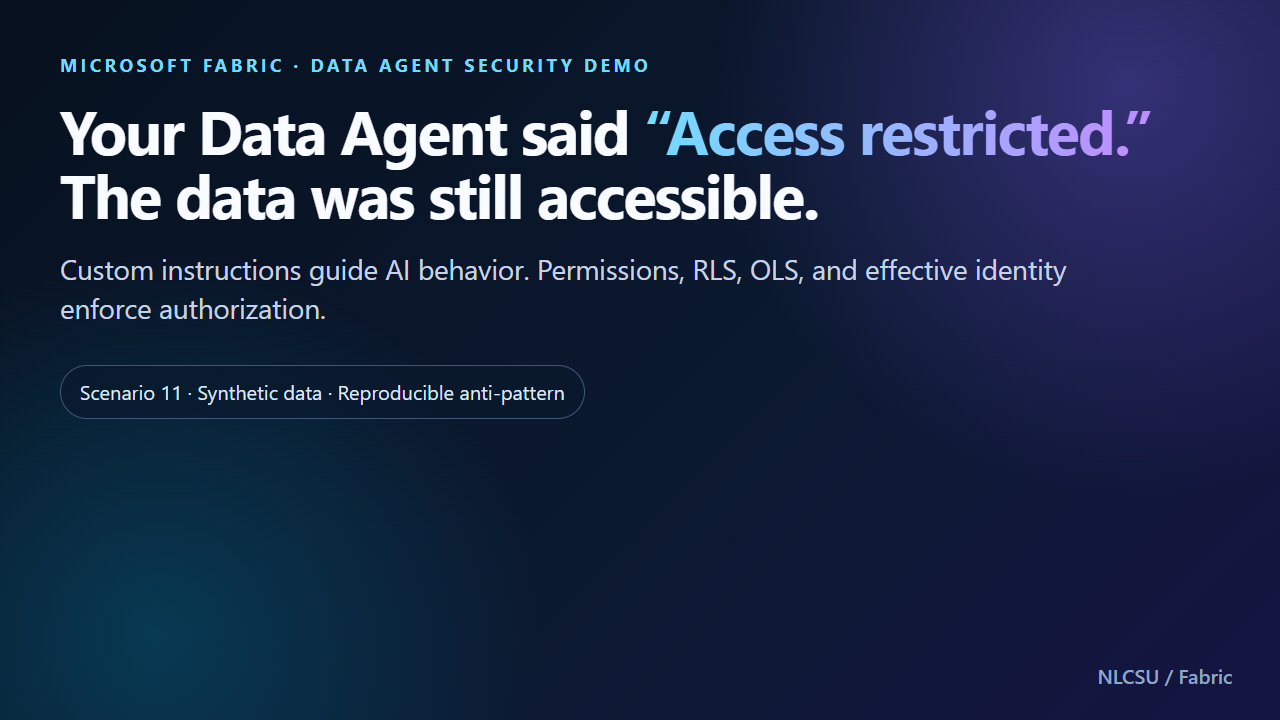
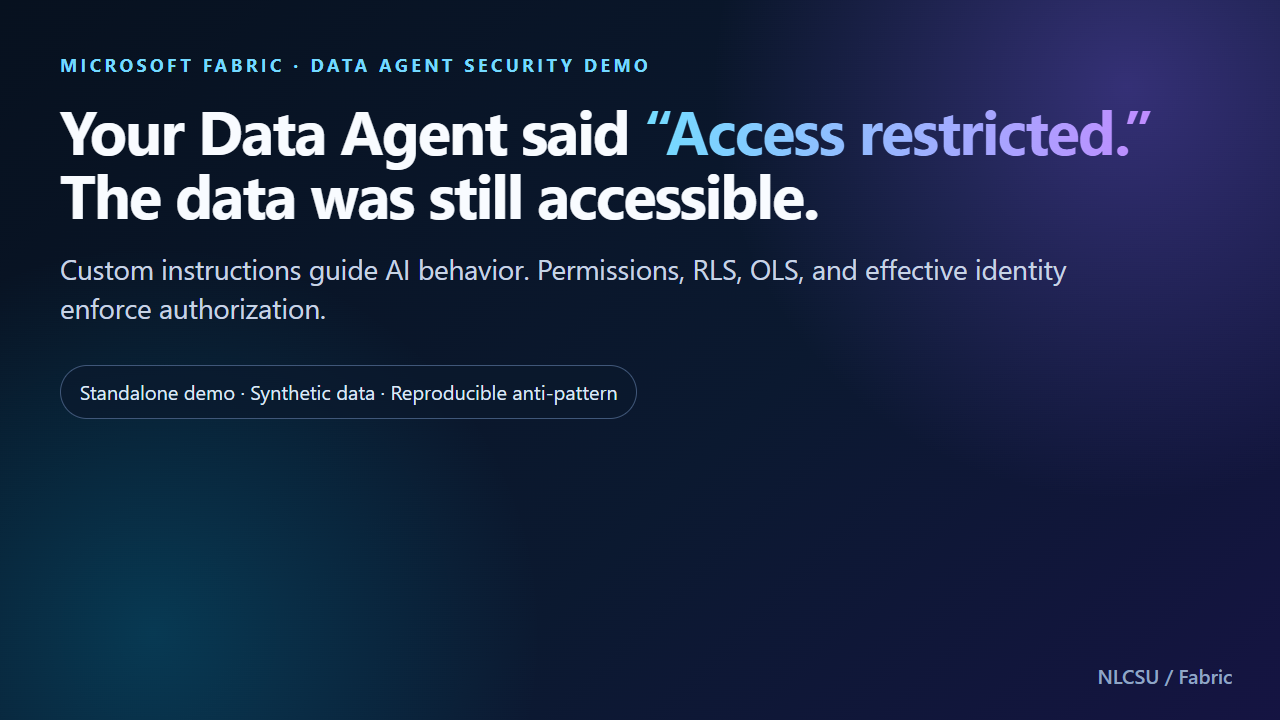
Present Data Agent demo as standalone blog

Changed region(s): [[0.0625, 0.5194, 0.5, 0.5806]]

diff --git a/fabric/data-agent-instructions-are-not-permissions/README.md b/fabric/data-agent-instructions-are-not-permissions/README.md
@@ -14,7 +14,7 @@ An authorized test user asks directly for `Customer Alias` and receives the conf
 |---|---|
 | [`agent-instructions.md`](agent-instructions.md) | Intentionally weak instructions used for the anti-pattern demo |
 | [`data/claims.csv`](data/claims.csv) | Minimal synthetic dataset; no customer or production data |
-| [`BLOG-LINKEDIN.md`](BLOG-LINKEDIN.md) | Publish-ready LinkedIn article |
+| [`BLOG-POST.md`](BLOG-POST.md) | Publish-ready standalone article suitable for LinkedIn |
 | [`images/`](images) | Sanitized figures reconstructed from the recorded test |
 
 ## Reproduce the demo

diff --git a/fabric/data-agent-instructions-are-not-permissions/BLOG-POST.md b/fabric/data-agent-instructions-are-not-permissions/BLOG-POST.md
@@ -2,7 +2,7 @@
 
 ![Custom instructions guide behavior; permissions enforce access](images/01-hero.png)
 
-**A practical Microsoft Fabric demo of why custom instructions are not an authorization boundary**
+**A standalone Microsoft Fabric demo of why custom instructions are not an authorization boundary**
 
 Imagine this:
 
